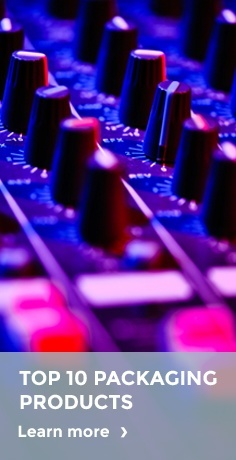
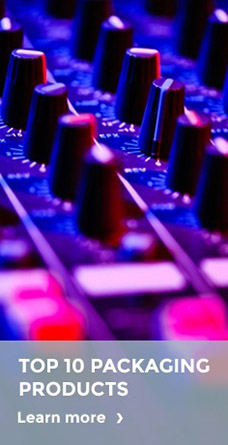
columns content adjustments

diff --git a/css/styles.css b/css/styles.css
@@ -219,7 +219,7 @@ body{
 
   .pb-header.show-scheme .basket {
       top: 30px;
-      width: 20px;
+      width: 32px;
       height: 15px;
       right: 110px;
       background-color: #c21718;
@@ -312,7 +312,8 @@ body{
   .state-tablet-view .pb-header.show-scheme .basket,
   .state-mobile-view .pb-header.show-scheme .basket {
       top: 8px;
-      right: 9px;  
+	  right: 9px;  
+	  width: 18px;
   }
 
   .state-mobile-view .pb-header.show-scheme .menu,
@@ -805,7 +806,7 @@ body{
 	padding: 0;
 	background: #efefef;
 
-	border: 1px solid #999;
+	border: 1px dashed #999;
 	border-radius: 5px;
 	margin: 3px 0 0 0;
 	position: relative;
@@ -1024,7 +1025,7 @@ body{
 .pb-preview{
 	width: 100%;
 	position: relative;
-	box-shadow:inset 0 0 0 1px #999, 2px 2px 4px 0 #999;
+	box-shadow:inset 0 0 0 2px #777, 2px 2px 4px 0 #999;
 	border-radius: 3px;
 }
 
@@ -1163,7 +1164,12 @@ body{
 	flex: 0 1 100%;
 }
 
-
+@media screen and (min-width:1024px){
+	[data-columns="6"] .pb-inner-column.state-dropped {
+		padding-left: 5px;
+		padding-right: 5px;
+	}
+}
 @media screen and (min-width:640px) and (max-width:1023px){
 	.site .pb-columns-layout[data-columns]{
 		padding-top: 0;
@@ -1543,20 +1549,36 @@ body{
 
 
 /**/
+.html-wrapper,
+.html-wrapper > div,
+.pb-inner-cell{
+	display: inherit;
+	align-items: center;
+}
+.html-wrapper > div{
+	flex-direction: column;
+	align-items: center;
+}
 
 .pb-inner-cell .banner{
-    height: auto;
+	height: auto;
+	display: inherit;
 }
 .pb-inner-cell .banner-full-width{
     position: static;
-    height: auto;
+	height: auto;
+	display: inherit;
+	align-items: center;
 }
 .pb-inner-cell .banner-content{
 	padding: 0;
+	display: inherit;
+	align-items: center;
 }
 .pb-inner-cell .banner h1 {
-    font-size: 32px;
-    color: #333;
+    font-size: 30px;
+	color: #333;
+	text-shadow: none;
 }
 .pb-inner-cell .banner h2 {
     font-size: 21px;
@@ -1570,6 +1592,7 @@ body{
     position: static;
 	left: 0;
 	max-width: 100%;
+	object-fit: contain;
 }
 
 .site{
@@ -1708,6 +1731,7 @@ header:not(.sticky-mode) .basket{
 	display: inline-block;
 	width: 170px;
 	vertical-align: middle;
+	background: #999;
 }
 .footer-nav-flex {
 	display: flex;
@@ -1718,6 +1742,7 @@ header:not(.sticky-mode) .basket{
 }
 .footer-nav .pb-grey-item{
 	height: 15px;
+	background: #999;
 }
 
 footer .bottom{

diff --git a/css/copied.css b/css/copied.css
@@ -1330,24 +1330,25 @@ ul.usp-list {
     width: 500px
 }
 
-.banner h1 {
+.site .banner h1 {
     font-weight: 700;
     text-shadow: 0 1px 1px #000!important
 }
 
-.banner h2 {
+.site .banner h2 {
     text-shadow: 0 1px 1px #000!important
 }
 
-.banner {
+.site .banner {
     text-align: left!important
 }
 
-.banner .btn {
+.site .banner .btn {
     margin-top: 20px!important
 }
 
-.btn,.over-summary .hyp {
+.site .btn,
+.site .over-summary .hyp {
     text-transform: none!important
 }
 
@@ -4515,8 +4516,9 @@ footer .bottom {
     width: 120px
 }
 
-.footer-nav {
-    text-align: right
+.columns-general>.column.footer-nav {
+    text-align: right;
+    vertical-align: middle;
 }
 
 .footer-nav .hyp {
@@ -7671,7 +7673,8 @@ ul.usp-list {
 }
 
 .flexi-row:not(.center) .banner {
-    padding: 0 1.85%
+    padding: 0 1.85%;
+    display: inherit;
 }
 
 .flexi-row:not(.center) .flow-category-tiles {
@@ -9475,7 +9478,7 @@ ul.usp-list {
 
     .banner-content {
         margin-left: 15px;
-        padding-top: 0
+        padding-top: 5px;
     }
 
     .center .banner {
@@ -9484,7 +9487,9 @@ ul.usp-list {
     }
 
     .flexi-row:not(.center) .banner {
-        padding: 0
+        padding: 0;
+        margin-left: auto;
+        margin-right: auto;
     }
 
     .basket-page-cnt .usp {

diff --git a/js/modules/layouts.js b/js/modules/layouts.js
@@ -1,5 +1,6 @@
 !function(window){
     var Layouts = {},
+        $body = $('body'),
         $contentAllFlows;
 
     Mediator.installTo(Layouts);
@@ -221,13 +222,14 @@
         Layouts.publish('attachDraggable:layouts', '.pb-layout');
     }//
     );
-    $(document).keydown(function(event){
-        if(event.which=="17")
-            $('body').addClass('state-ctrl-pressed');
-    });
-    $(document).keyup(function(event){
-        $('body').removeClass('state-ctrl-pressed');
-    });
+    $(document)
+        .keydown(function(event){
+            if(event.which=="17") $body.addClass('state-ctrl-pressed');
+        }).keyup(function(event){
+            $body.removeClass('state-ctrl-pressed');
+        }).mouseenter(function(){
+            $body.removeClass('state-ctrl-pressed');
+        });
 
 
 }(window);
